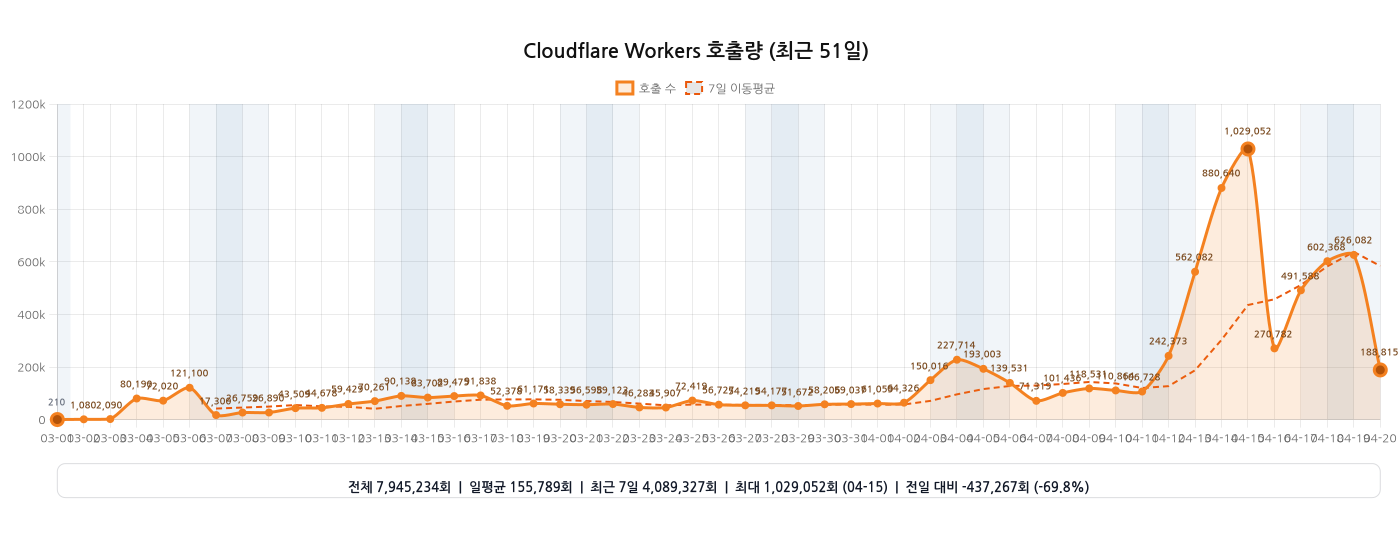
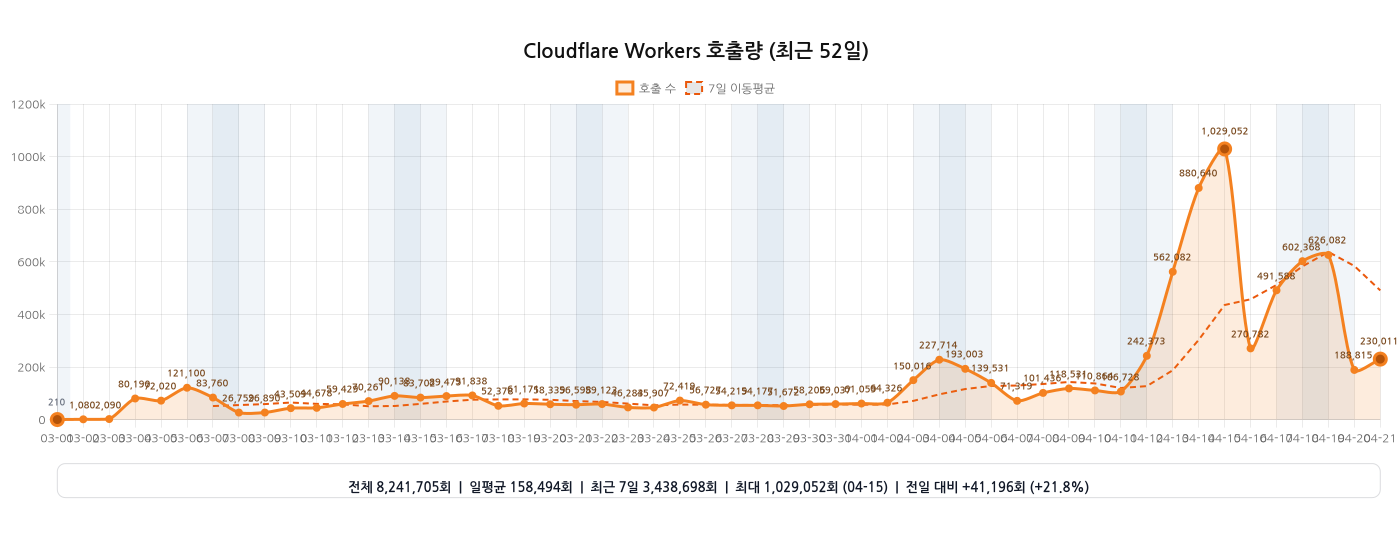
chore: 워커 호출량 그래프 자동 갱신

Changed region(s): [[0.0614, 0.2125, 1.0, 0.7893], [0.2457, 0.85, 0.7679, 0.8804]]

diff --git a/README.md b/README.md
@@ -18,11 +18,11 @@
 [![Coverage](https://github.com/hmmhmmhm/daiso-mcp/actions/workflows/coverage.yml/badge.svg?branch=main)](https://github.com/hmmhmmhm/daiso-mcp/actions/workflows/coverage.yml)
 
 <!-- WORKERS_INVOCATIONS_CHART:START -->
-<h3>Cloudflare Workers 호출량 (2026-03-01 ~ 2026-04-20, 51일)</h3>
+<h3>Cloudflare Workers 호출량 (2026-03-01 ~ 2026-04-21, 52일)</h3>
 
-<img src="./assets/analytics/workers-invocations.png?v=2026-04-20T15:51:28.411Z" alt="Cloudflare Workers 호출량 그래프 (2026-03-01 ~ 2026-04-20)" width="100%">
+<img src="./assets/analytics/workers-invocations.png?v=2026-04-21T15:49:52.393Z" alt="Cloudflare Workers 호출량 그래프 (2026-03-01 ~ 2026-04-21)" width="100%">
 
-<sub>기준 워커: <code>daiso-mcp</code> · 마지막 갱신: 2026-04-21 00:51 KST</sub>
+<sub>기준 워커: <code>daiso-mcp</code> · 마지막 갱신: 2026-04-22 00:49 KST</sub>
 
 <!-- WORKERS_INVOCATIONS_CHART:END -->
 
